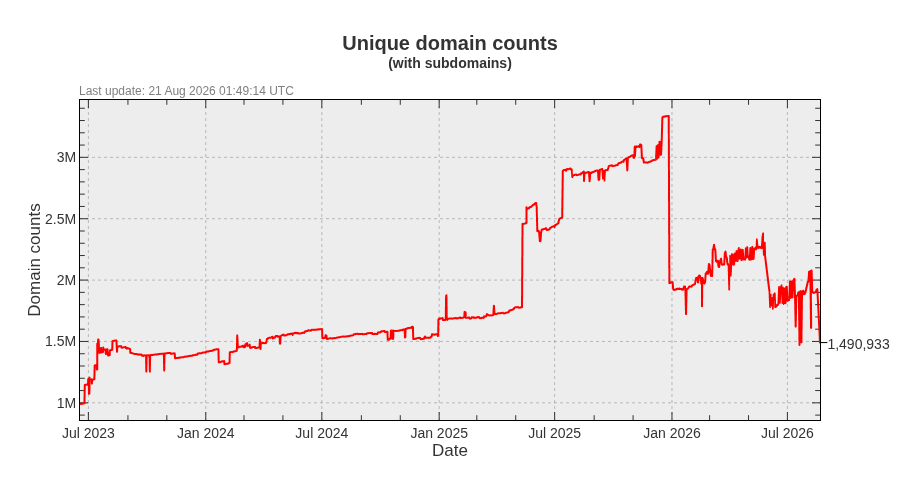
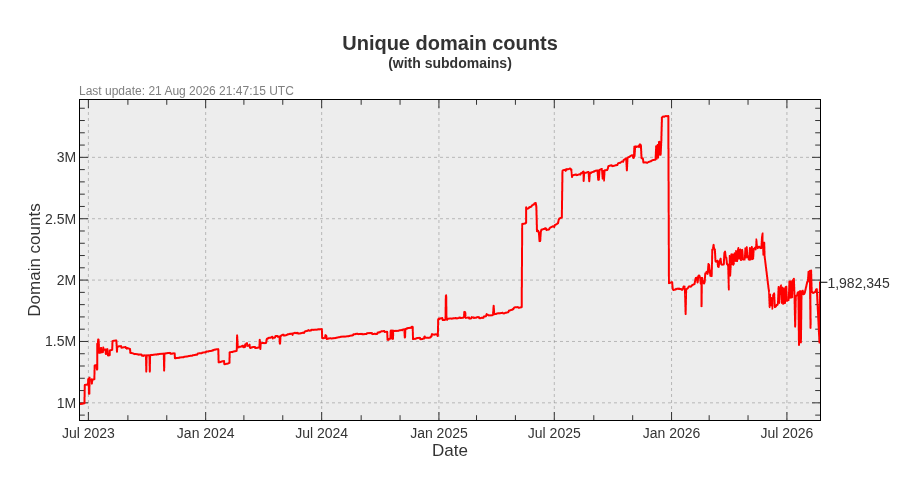
Update pages

diff --git a/README.md b/README.md
@@ -3,22 +3,22 @@ A blocklist file for blocking ads, trackers and malware domains.
 
[1 lines of base64/hex data omitted]
 
-- Unique domains: 1,490,933
-- Without subdomains: 764,018
-- Last update: 21 Aug 2026 01:49:14 UTC
-- Version: 2026.08.21.01
+- Unique domains: 1,982,345
+- Without subdomains: 1,199,376
+- Last update: 21 Aug 2026 21:47:15 UTC
+- Version: 2026.08.21.02
 
 
 ## Downloads:
 
 | Format             | Domain count      | Download Link |
 |------------------ | -----------------|-------------|
-| *Adblock Plus*     | 764,018 | [bad-hosts-abp](https://dl.cenk.app/bad-hosts/bad-hosts-abp) |
-| *Wildcard domains* | 764,018 | [bad-hosts-wildcard](https://dl.cenk.app/bad-hosts/bad-hosts-wildcard) |
-| *dnsmasq*          | 764,018 | [bad-hosts-dnsmasq](https://dl.cenk.app/bad-hosts/bad-hosts-dnsmasq) |
-| *hosts*            | 1,490,933 | [hosts](https://dl.cenk.app/bad-hosts/hosts) |
-| *hosts (ipv6)*     | 1,490,933 | [hosts-ipv6](https://dl.cenk.app/bad-hosts/hosts-ipv6) |
-| *Plain domains*    | 1,490,933 | [bad-hosts-domains](https://dl.cenk.app/bad-hosts/bad-hosts-domains) |
+| *Adblock Plus*     | 1,199,376 | [bad-hosts-abp](https://dl.cenk.app/bad-hosts/bad-hosts-abp) |
+| *Wildcard domains* | 1,199,376 | [bad-hosts-wildcard](https://dl.cenk.app/bad-hosts/bad-hosts-wildcard) |
+| *dnsmasq*          | 1,199,376 | [bad-hosts-dnsmasq](https://dl.cenk.app/bad-hosts/bad-hosts-dnsmasq) |
+| *hosts*            | 1,982,345 | [hosts](https://dl.cenk.app/bad-hosts/hosts) |
+| *hosts (ipv6)*     | 1,982,345 | [hosts-ipv6](https://dl.cenk.app/bad-hosts/hosts-ipv6) |
+| *Plain domains*    | 1,982,345 | [bad-hosts-domains](https://dl.cenk.app/bad-hosts/bad-hosts-domains) |
 
 ## Domain count history
 ### With subdomains
